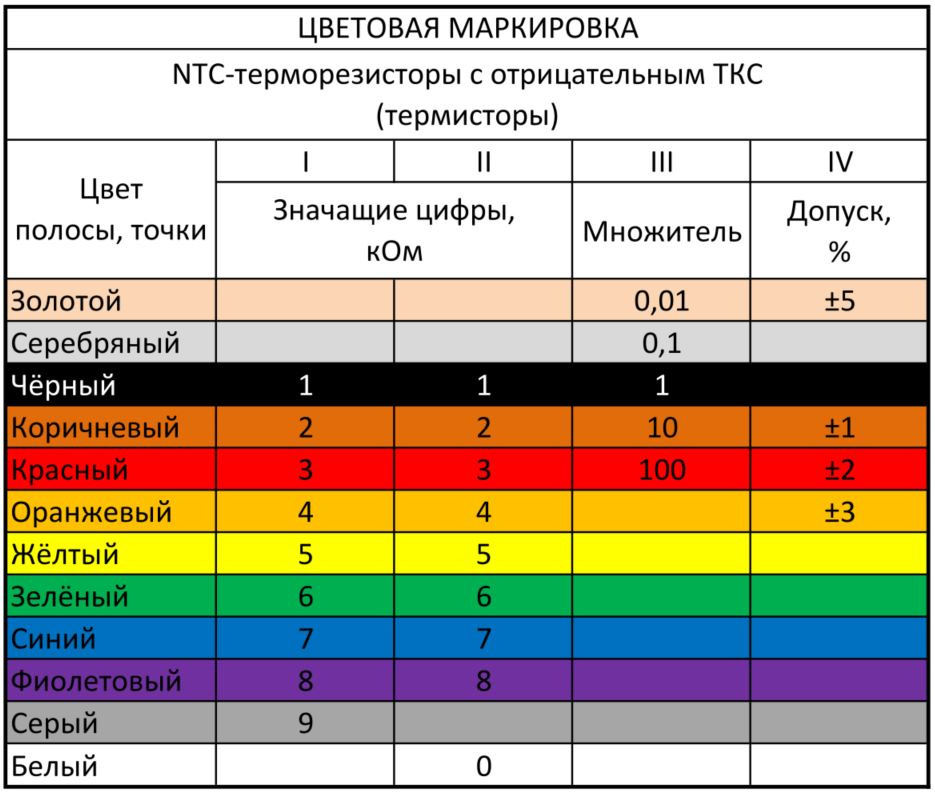
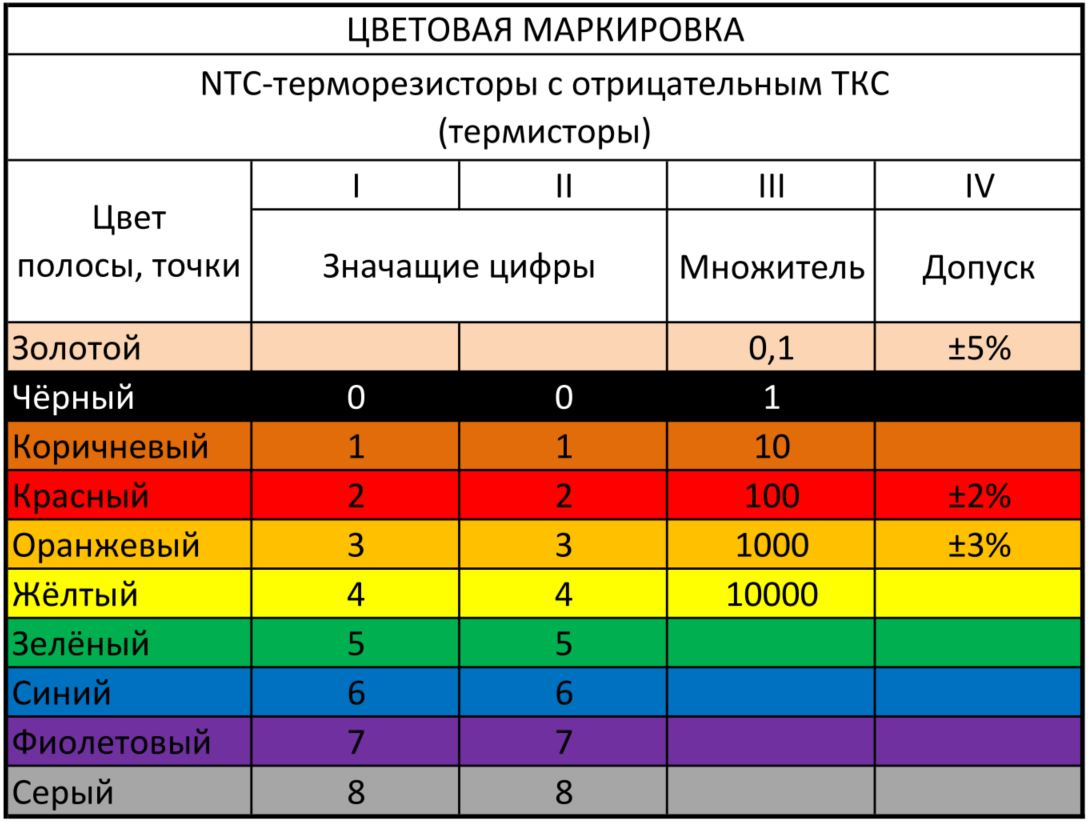
250325 deep modifi thermistor_color

diff --git a/thermistor_color.js b/thermistor_color.js
@@ -18,31 +18,31 @@ const app = () => {
     let input_color_1 = document.getElementById('color1');
     let select_input_color_1 = input_color_1.options[input_color_1.selectedIndex].value;
     if (select_input_color_1 === "Чёрный") {
-      data_1 = 1;
+      data_1 = 0;
     }
     if (select_input_color_1 === "Коричневый") {
-      data_1 = 2;
+      data_1 = 1;
     }
     if (select_input_color_1 === "Красный") {
-      data_1 = 3;
+      data_1 = 2;
     }
     if (select_input_color_1 === "Оранжевый") {
-      data_1 = 4;
+      data_1 = 3;
     }
     if (select_input_color_1 === "Жёлтый") {
-      data_1 = 5;
+      data_1 = 4;
     }
     if (select_input_color_1 === "Зелёный") {
-      data_1 = 6;
+      data_1 = 5;
     }
     if (select_input_color_1 === "Синий") {
-      data_1 = 7;
+      data_1 = 6;
     }
     if (select_input_color_1 === "Фиолетовый") {
-      data_1 = 8;
+      data_1 = 7;
     }
     if (select_input_color_1 === "Серый") {
-      data_1 = 9;
+      data_1 = 8;
     }
 
 
@@ -50,31 +50,31 @@ const app = () => {
     let input_color_2 = document.getElementById('color2');
     let select_input_color_2 = input_color_2.options[input_color_2.selectedIndex].value;
     if (select_input_color_2 === "Чёрный") {
-      data_2 = 1;
+      data_2 = 0;
     }
     if (select_input_color_2 === "Коричневый") {
-      data_2 = 2;
+      data_2 = 1;
     }
     if (select_input_color_2 === "Красный") {
-      data_2 = 3;
+      data_2 = 2;
     }
     if (select_input_color_2 === "Оранжевый") {
-      data_2 = 4;
+      data_2 = 3;
     }
     if (select_input_color_2 === "Жёлтый") {
-      data_2 = 5;
+      data_2 = 4;
     }
     if (select_input_color_2 === "Зелёный") {
-      data_2 = 6;
+      data_2 = 5;
     }
     if (select_input_color_2 === "Синий") {
-      data_2 = 7;
+      data_2 = 6;
     }
     if (select_input_color_2 === "Фиолетовый") {
-      data_2 = 8;
+      data_2 = 7;
     }
-    if (select_input_color_2 === "Белый") {
-      data_2 = 0;
+    if (select_input_color_2 === "Серый") {
+      data_2 = 8;
     }
 
 
@@ -83,9 +83,6 @@ const app = () => {
     let input_color_3 = document.getElementById('color3');
     let select_input_color_3 = input_color_3.options[input_color_3.selectedIndex].value;
     if (select_input_color_3 === "Золотой") {
-      data_3 = 0.01;
-    }
-    if (select_input_color_3 === "Серебряный") {
       data_3 = 0.1;
     }
     if (select_input_color_3 === "Чёрный") {
@@ -97,6 +94,12 @@ const app = () => {
     if (select_input_color_3 === "Красный") {
       data_3 = 100;
     }
+    if (select_input_color_3 === "Оранжевый") {
+      data_3 = 1000;
+    }
+    if (select_input_color_3 === "Жёлтый") {
+      data_3 = 10000;
+    }
 
 
 
@@ -104,9 +107,6 @@ const app = () => {
     let select_input_color_4 = input_color_4.options[input_color_4.selectedIndex].value;
     if (select_input_color_4 === "Золотой") {
       data_4 = ' ±5%';
-    }
-    if (select_input_color_4 === "Коричневый") {
-      data_4 = ' ±1%';
     }
     if (select_input_color_4 === "Красный") {
       data_4 = ' ±2%';
@@ -118,7 +118,7 @@ const app = () => {
 
     // Расчёт сопротивления
     //let resistance = (((data_1 * 10000) + (data_2 * 1000)) * data_3);
-    let resistance = (((data_1 * 10) + data_2) * 1000) * data_3;
+    let resistance = ((data_1 * 10) + data_2) * data_3;
 
     document.getElementById('resistance_show').value = resistance + `${data_4}`;
     //document.getElementById('resistance_show').textContent = resistance + `${data_4}`;

diff --git a/thermistor_color.html b/thermistor_color.html
@@ -13,7 +13,7 @@
     /* Стиль для уменьшенного изображения */
     #preview-img {
       width: 320px;
-      height: 272px;
+      height: 242px;
       object-fit: cover;
       cursor: zoom-in;
       border: 1px solid #ccc;
@@ -58,7 +58,7 @@
 
 
 
-      
+
       <tr>
         <th>
           <form id="form">
@@ -122,7 +122,7 @@
             </script>
 
 
-
+            <img src="images/ex_10kohm.jpg" alt="color_thermistor_description">
 
 
 
@@ -184,10 +184,11 @@
 
                 <select id="color3" style="width: 200px; height: 25px; margin-bottom: 10px;">
                   <option атрибуты>Золотой</option>
-                  <option атрибуты>Серебряный</option>
                   <option атрибуты>Чёрный</option>
                   <option атрибуты>Коричневый</option>
                   <option атрибуты>Красный</option>
+                  <option атрибуты>Оранжевый</option>
+                  <option атрибуты>Жёлтый</option>
                 </select>
               </div>
 
@@ -202,7 +203,6 @@
 
                 <select id="color4" style="width: 200px; height: 25px; margin-bottom: 10px;">
                   <option атрибуты>Золотой</option>
-                  <option атрибуты>Коричневый</option>
                   <option атрибуты>Красный</option>
                   <option атрибуты>Оранжевый</option>
                 </select>
@@ -213,7 +213,8 @@
 
 
             <div class="button-row" id="button_style">
-              <button class="button" type="submit" id="button_rasschitat" style="margin-right: 40px;">Рассчитать</button>
+              <button class="button" type="submit" id="button_rasschitat"
+                style="margin-right: 40px;">Рассчитать</button>
               <button class="button" type="reset" id="button_ochistit">Очистить</button>
             </div>
 
